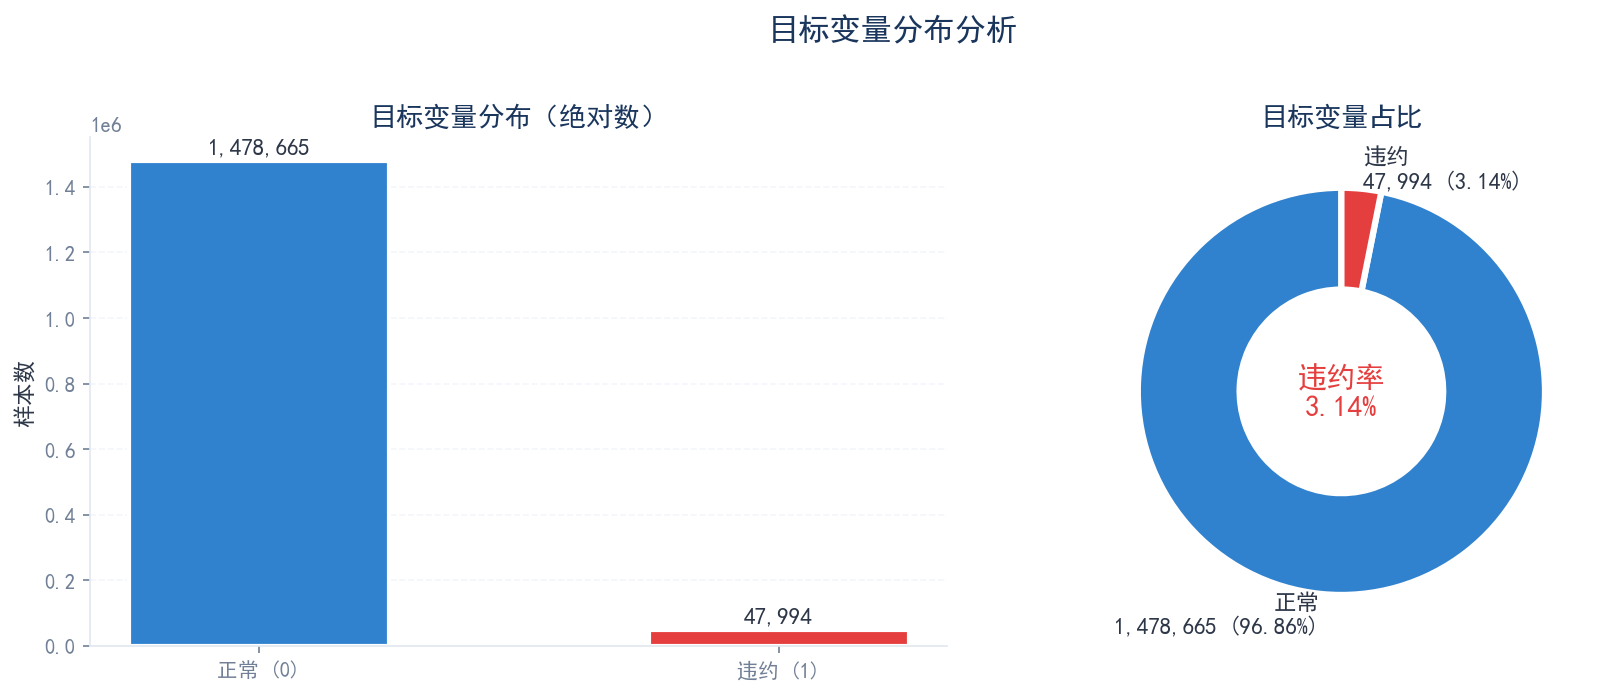
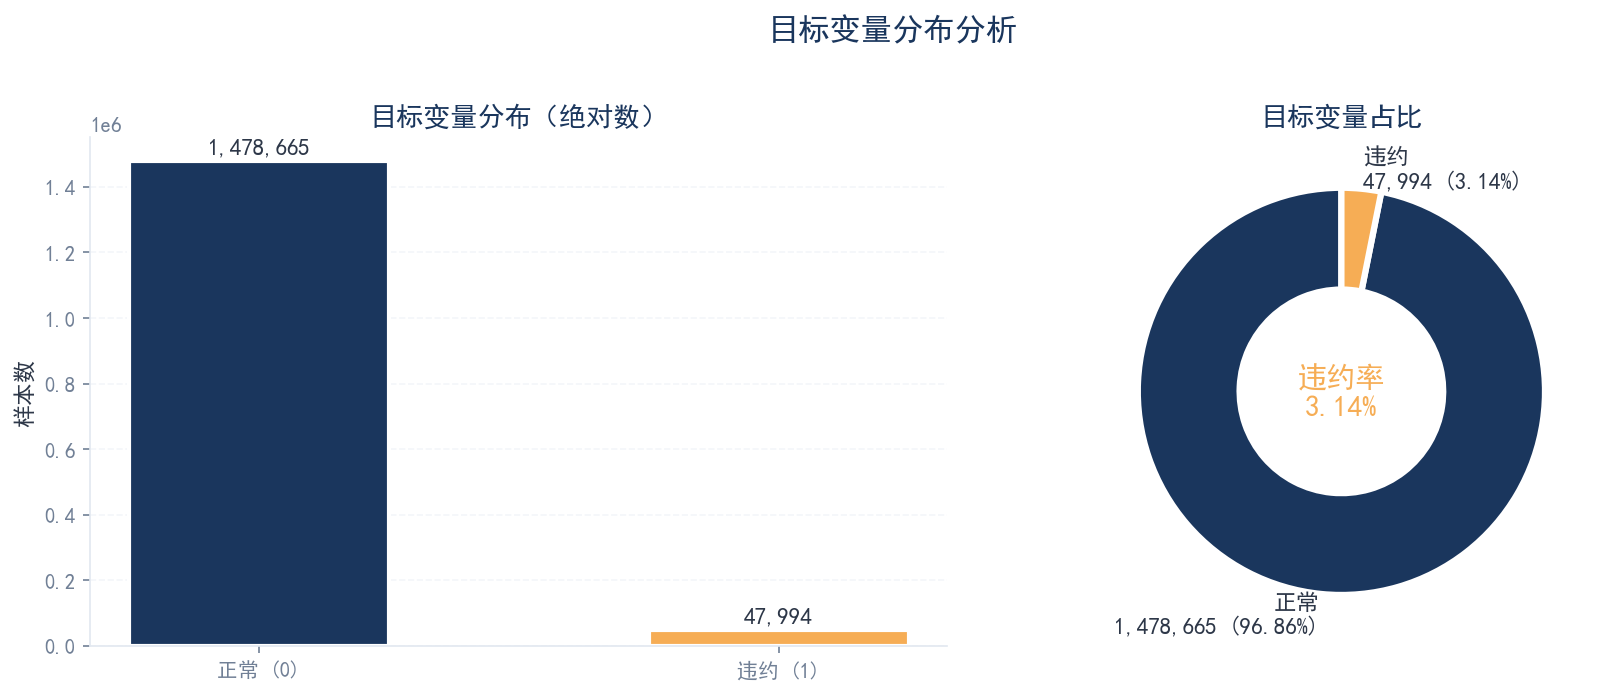
style: unify EDA charts to primary+accent colors

Changed region(s): [[0.0621, 0.2115, 0.2484, 0.9367], [0.6832, 0.2719, 0.9627, 0.8763], [0.4037, 0.9065, 0.559, 0.9367]]

diff --git a/src/regenerate_website_figures.py b/src/regenerate_website_figures.py
@@ -83,9 +83,9 @@ def fig_target_distribution():
 
     fig, ax = plt.subplots(1, 2, figsize=(12, 4.5))
 
-    # 左图：柱状图
+    # 左图：柱状图（深蓝+橙色）
     bars = ax[0].bar(['正常 (0)', '违约 (1)'], target_counts.values,
-                     color=[COLORS['positive'], COLORS['negative']],
+                     color=[COLORS['primary'], COLORS['accent']],
                      width=0.5, edgecolor='white', linewidth=2)
     ax[0].set_title('目标变量分布（绝对数）', fontsize=13, fontweight='bold', color=COLORS['primary'])
     ax[0].set_ylabel('样本数', fontsize=11)
@@ -98,23 +98,23 @@ def fig_target_distribution():
                    f'{val:,}', ha='center', va='bottom', fontsize=11, fontweight='bold',
                    color=COLORS['text'])
 
-    # 右图：饼图（环形图）
+    # 右图：饼图（环形图，深蓝+橙色）
     wedges, texts, autotexts = ax[1].pie(
         target_counts.values,
         labels=[f'正常\n{target_counts[0]:,} ({target_ratio[0]*100:.2f}%)',
                 f'违约\n{target_counts[1]:,} ({target_ratio[1]*100:.2f}%)'],
         autopct='',
         startangle=90,
-        colors=[COLORS['positive'], COLORS['negative']],
+        colors=[COLORS['primary'], COLORS['accent']],
         wedgeprops=dict(width=0.5, edgecolor='white', linewidth=3),
         textprops=dict(fontsize=11, color=COLORS['text']),
     )
     ax[1].set_title('目标变量占比', fontsize=13, fontweight='bold', color=COLORS['primary'])
 
-    # 中心文字
+    # 中心文字（橙色）
     ax[1].text(0, 0, f'违约率\n{target_ratio[1]*100:.2f}%',
                ha='center', va='center', fontsize=14, fontweight='bold',
-               color=COLORS['negative'])
+               color=COLORS['accent'])
 
     plt.suptitle('目标变量分布分析', fontsize=15, fontweight='bold', color=COLORS['primary'],
                  y=1.02)
@@ -146,12 +146,12 @@ def fig_time_analysis():
     ax[0].yaxis.grid(True, linestyle='--', alpha=0.4)
     ax[0].set_axisbelow(True)
 
-    # 右图：WEEK_NUM 违约率趋势
+    # 右图：WEEK_NUM 违约率趋势（橙色）
     week_default = base.groupby('WEEK_NUM')['target'].agg(['mean', 'count']).reset_index()
     ax[1].fill_between(week_default['WEEK_NUM'], week_default['mean'] * 100,
-                       alpha=0.12, color=COLORS['negative'])
+                       alpha=0.12, color=COLORS['accent'])
     ax[1].plot(week_default['WEEK_NUM'], week_default['mean'] * 100,
-               color=COLORS['negative'], marker='o', markersize=3.5,
+               color=COLORS['accent'], marker='o', markersize=3.5,
                linewidth=1.8, label='周违约率')
     ax[1].axhline(y=base['target'].mean() * 100, color=COLORS['neutral'],
                   linestyle='--', linewidth=1.5, alpha=0.8,
